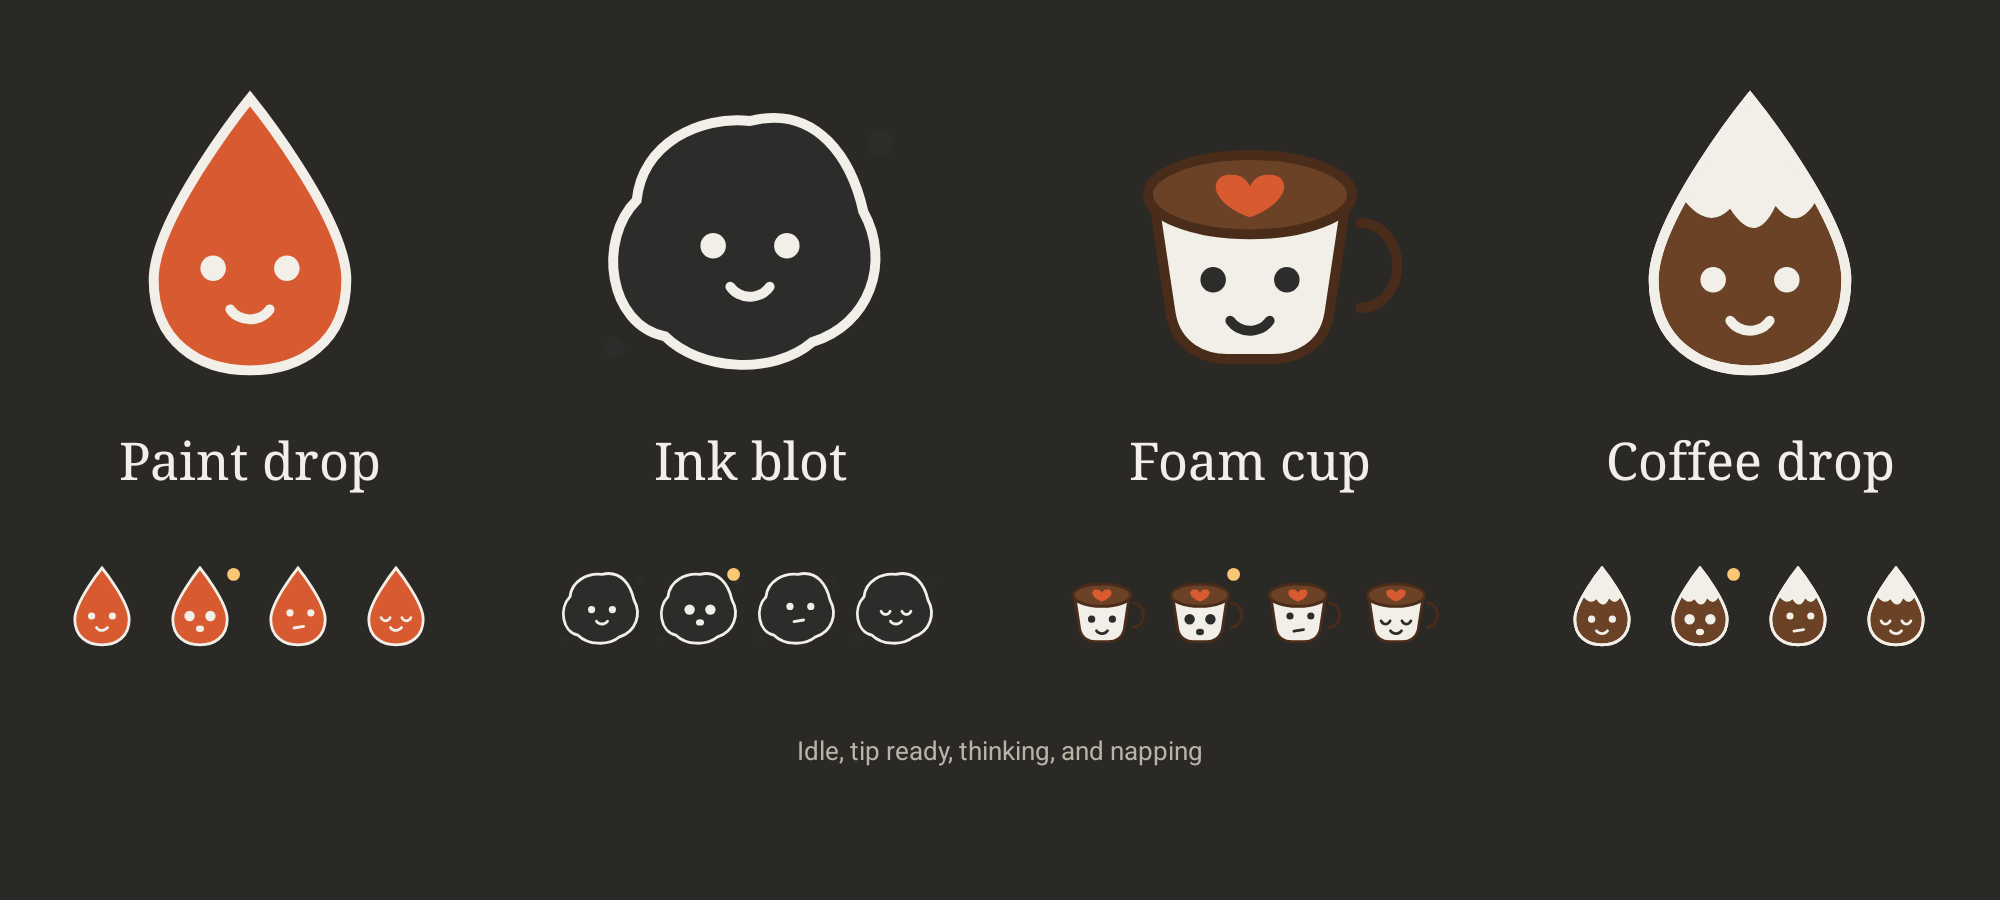
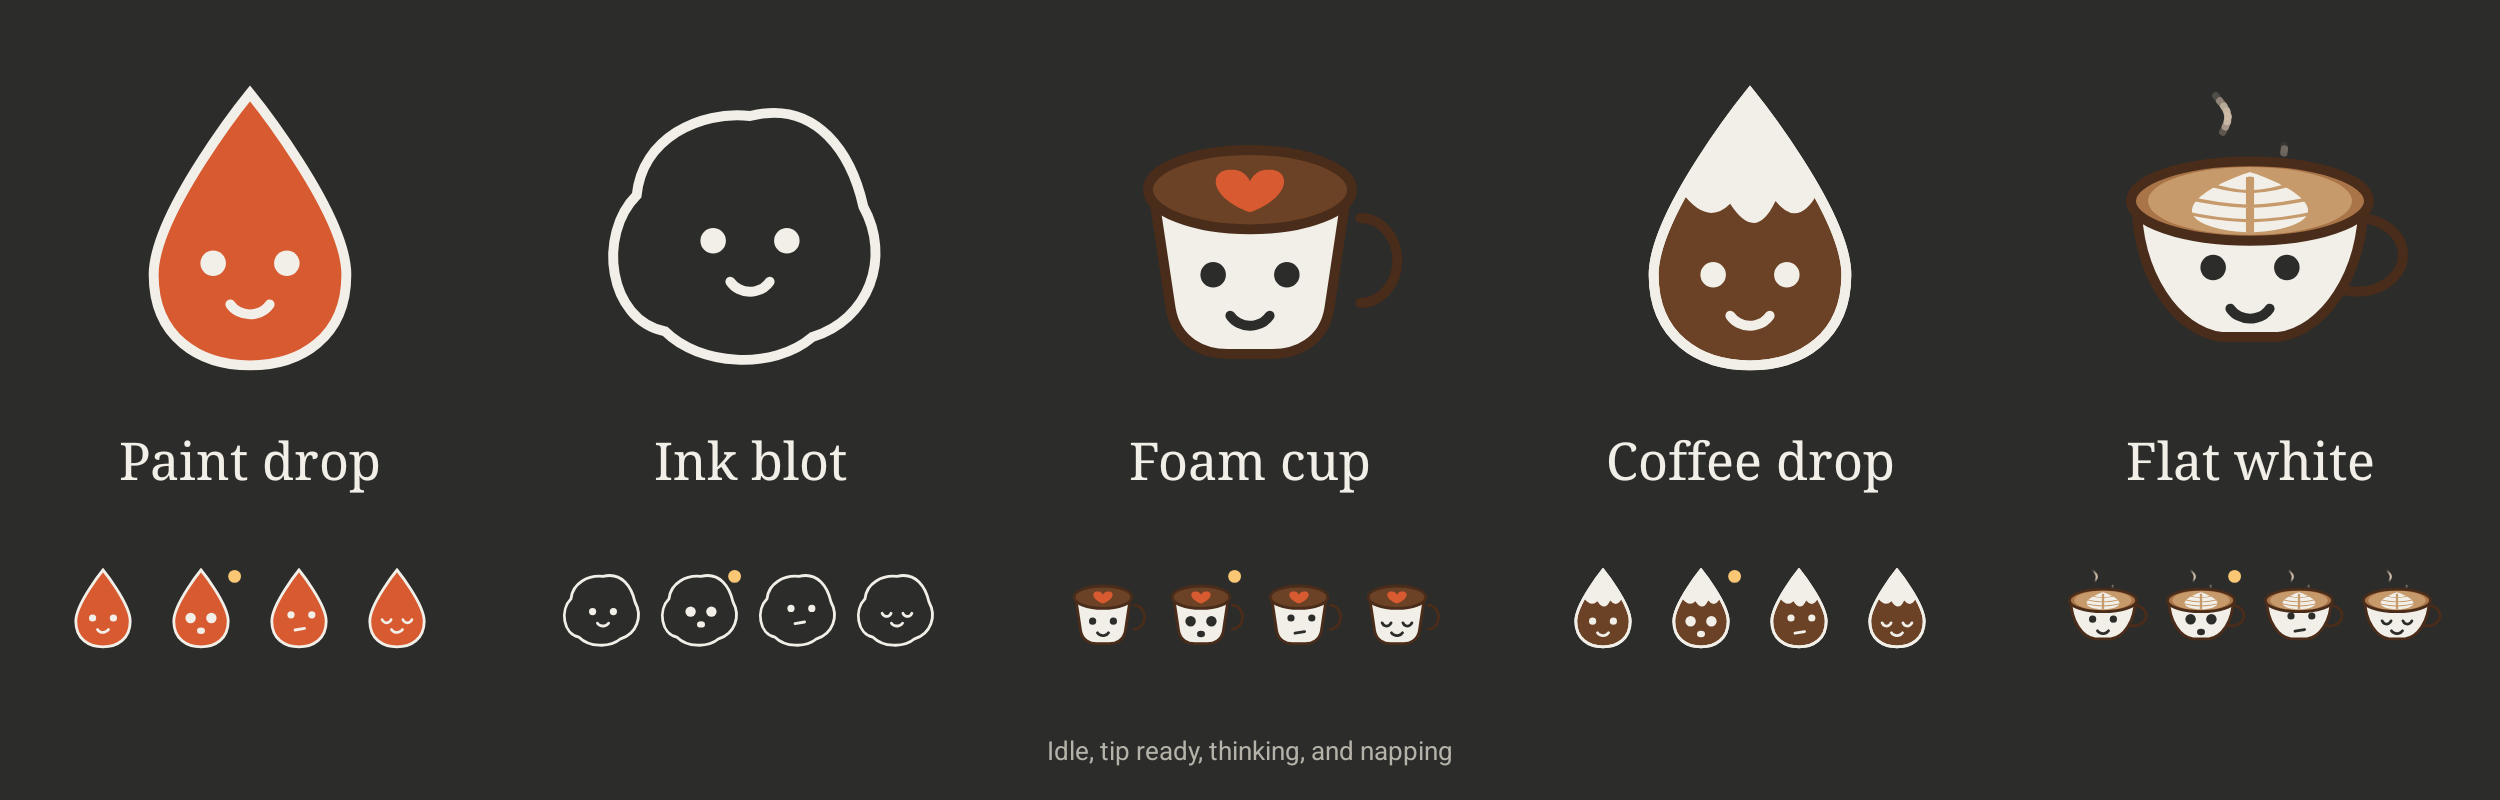
new readme

diff --git a/README.md b/README.md
@@ -29,11 +29,14 @@ See it in motion in the [short companion video](marketing/cappuccino-companion-r
 
 Choose a paint drop, ink blot, foam cup, coffee drop, or flat white:
 
-![The four companions, each shown idle, with a tip ready, thinking, and napping](docs/screenshots/companions.png)
+![The companions, each shown idle, with a tip ready, thinking, and napping](docs/screenshots/companions.png)
 
 Your companion rests in a corner of the canvas and never interrupts you. When it has a thought, a
 small dot appears beside it. Tap it to read the note, or keep drawing and ignore it. If you'd
-rather be alone, it tucks away behind the toolbar.
+rather be alone, tap the small button in the corner of its note and it tucks away behind the
+toolbar. The flat white keeps steaming while it hides.
+
+![Each companion hiding behind the toolbar, holding its edge with two small hands](docs/screenshots/companions-hidden.png)
 
 ![The companion's note about how the artwork compares with its references](docs/screenshots/companion-note.png)
 
@@ -100,7 +103,7 @@ can't recognize your subject or judge your style. Those decisions stay yours.
 
 ### Draw
 
-- Sixteen brushes, including Sponge and Dry brush textures
+- Sixteen brushes, including Fine and Soft pencils for sketching and Sponge and Dry brush textures
 - Scatter brushes for leaves, grass, rocks, and particles
 - Smudge, fill, gradient, and lasso fill tools, plus a lasso eraser for blocking in silhouettes
 - Hold at the end of a stroke to snap it to a clean line, ellipse, or box. Lines lean toward your perspective guides
@@ -167,6 +170,7 @@ can't recognize your subject or judge your style. Those decisions stay yours.
 
 - Sketchbooks, each with its own reference library
 - Star your best references, sort them into boards, filter by either, and move them between sketchbooks
+- A small tag on each thumbnail shows which block a reference belongs to
 - Floating references you can move, zoom, flip, gray out, or pin over your work for tracing
 - Pick colors from a reference, or turn it into a palette
 - Share images into Cappuccino from other apps
